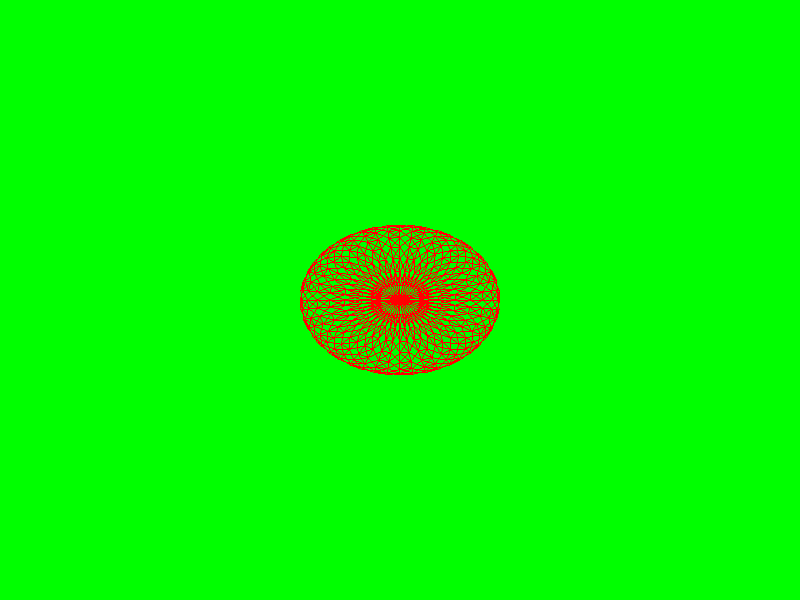
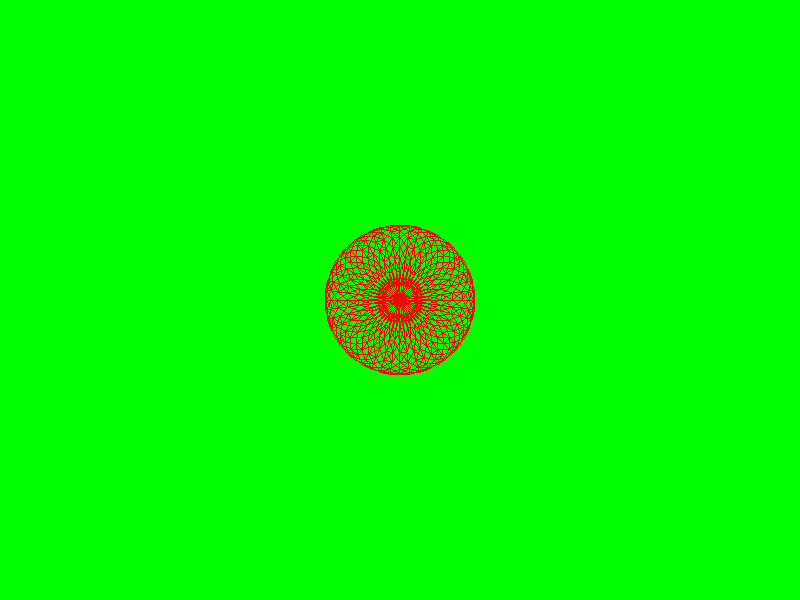
feat: add a fill mode for sphere and fix its shape

Changed region(s): [[0.375, 0.36, 0.625, 0.63]]

diff --git a/phoenix/src/components/geometry/solid.rs b/phoenix/src/components/geometry/solid.rs
@@ -1,14 +1,14 @@
-use crate::components::{Shape, ShapeType};
+use crate::components::{FillMode, Shape, ShapeType};
 
-use super::Point;
-
+use super::{Point, Radius};
 
 pub struct Cube {
     vertices: [f32; 108],
 }
 
 pub struct Sphere {
-    vertices: Vec<f32>
+    vertices: Vec<f32>,
+    mode: FillMode,
 }
 
 impl Cube {
@@ -41,33 +41,38 @@ impl Cube {
 
 impl Sphere {
     #[must_use]
-    pub fn new(center: &Point, radius: f32, precision: u16) -> Self {
+    pub fn new(center: &Point, radius: &Radius, precision: u16) -> Self {
         let mut vertices: Vec<Vec<Point>> = Vec::new();
-        vertices.push(Sphere::calculate_upper_point(center, radius));
+        vertices.push(Sphere::calculate_upper_point(center, radius.height));
         vertices.extend(Sphere::calculate_sector_points(center, radius, precision));
-        vertices.push(Sphere::calculate_bottom_point(center, radius));
+        vertices.push(Sphere::calculate_bottom_point(center, radius.height));
         Self {
             vertices: Sphere::generate_geometry(&vertices, precision),
+            mode: FillMode::Solid,
         }
     }
 
-    fn calculate_upper_point(center: &Point, radius: f32) -> Vec<Point> {
+    pub fn set_fill_mode(&mut self, mode: FillMode) {
+        self.mode = mode;
+    }
+
+    fn calculate_upper_point(center: &Point, height_radius: f32) -> Vec<Point> {
         vec![Point {
             x: center.x,
             y: center.y,
-            z: radius + center.z,
+            z: height_radius + center.z,
         }]
     }
 
-    fn calculate_bottom_point(center: &Point, radius: f32) -> Vec<Point> {
+    fn calculate_bottom_point(center: &Point, height_radius: f32) -> Vec<Point> {
         vec![Point {
             x: center.x,
             y: center.y,
-            z: -radius + center.z,
+            z: -height_radius + center.z,
         }]
     }
 
-    fn calculate_sector_points(center: &Point, radius: f32, precision: u16) -> Vec<Vec<Point>> {
+    fn calculate_sector_points(center: &Point, radius: &Radius, precision: u16) -> Vec<Vec<Point>> {
         let mut result: Vec<Vec<Point>> = Vec::new();
         let sector_angle_leap = 360_f32 / f32::from(precision * 3);
         let stack_angle_leap = 180_f32 / f32::from(precision);
@@ -90,12 +95,17 @@ impl Sphere {
         result
     }
 
-    fn calculate_point(center: &Point, radius: f32, sector_angle: f32, stack_angle: f32) -> Point {
+    fn calculate_point(
+        center: &Point,
+        radius: &Radius,
+        sector_angle: f32,
+        stack_angle: f32,
+    ) -> Point {
         let radian_sector_angle = f32::to_radians(sector_angle);
         let radian_stack_angle = f32::to_radians(stack_angle);
-        let x = radius * f32::cos(radian_stack_angle) * f32::cos(radian_sector_angle);
-        let y = radius * f32::cos(radian_stack_angle) * f32::sin(radian_sector_angle);
-        let z = radius * f32::sin(radian_stack_angle);
+        let x = radius.width * f32::cos(radian_stack_angle) * f32::cos(radian_sector_angle);
+        let y = radius.height * f32::cos(radian_stack_angle) * f32::sin(radian_sector_angle);
+        let z = radius.height * f32::sin(radian_stack_angle);
         Point {
             x: x + center.x,
             y: y + center.y,
@@ -204,5 +214,55 @@ impl Shape for Sphere {
 
     fn get_type(&self) -> ShapeType {
         ShapeType::Sphere
+    }
+
+    fn get_fill_mode(&self) -> FillMode {
+        self.mode
+    }
+}
+
+#[cfg(test)]
+mod tests {
+    use super::*;
+
+    #[test]
+    fn test_sphere_vertices_count() {
+        let center = Point {
+            x: 0.0,
+            y: 0.0,
+            z: 0.0,
+        };
+        let radius = Radius {
+            width: 1.0,
+            height: 1.0,
+        };
+        let precision = 10;
+        let sphere = Sphere::new(&center, &radius, precision);
+
+        // Calculate expected number of vertices
+        let expected_vertices = Sphere::estimate_buffer_len(precision);
+
+        assert_eq!(sphere.vertices.len(), expected_vertices);
+    }
+
+    #[test]
+    fn test_sphere_precision_effect() {
+        let center = Point {
+            x: 0.0,
+            y: 0.0,
+            z: 0.0,
+        };
+        let radius = Radius {
+            width: 1.0,
+            height: 1.0,
+        };
+
+        let low_precision = 5;
+        let high_precision = 10;
+
+        let low_precision_sphere = Sphere::new(&center, &radius, low_precision);
+        let high_precision_sphere = Sphere::new(&center, &radius, high_precision);
+
+        assert!(low_precision_sphere.vertices.len() < high_precision_sphere.vertices.len());
     }
 }

diff --git a/phoenix/src/renderer/opengl.rs b/phoenix/src/renderer/opengl.rs
@@ -9,7 +9,7 @@ use crate::components::color::{Color, RGBA};
 use crate::components::shaders::ShaderSource;
 use crate::components::texture::Texture;
 use crate::components::transformer::Transformer;
-use crate::components::{Shape, ShapeType};
+use crate::components::{FillMode, Shape, ShapeType};
 use crate::entities::entity::View;
 use crate::renderer::Result;
 
@@ -28,13 +28,14 @@ pub struct OpenGL {
     buffers: HashMap<EntityID, Buffers>,
     shapes_type: HashMap<EntityID, ShapeType>,
     textures: HashMap<EntityID, TextureID>,
+    shape_fill_mode: HashMap<EntityID, u32>,
 }
 
 #[derive(Clone, Default)]
 struct Buffers {
     pub vertex_array_object: u32,
     pub vertex_buffer_object: u32,
-    pub indices: u16
+    pub indices: u16,
 }
 
 impl Buffers {
@@ -80,13 +81,17 @@ impl Render for OpenGL {
         }
 
         if let Some(shape) = entity.shape {
-            let buffers = OpenGL::handle_vertices(shape, &entity)?;
+            let buffers = OpenGL::handle_shape(shape, &entity)?;
             self.buffers.insert(entity.entity_id, buffers);
             if let Some(shader_id) = self.shaders_id.get(&entity.entity_id) {
                 OpenGL::set_uniform_shader_variables(&entity, *shader_id)?;
             }
 
             self.shapes_type.insert(entity.entity_id, shape.get_type());
+            self.shape_fill_mode.insert(
+                entity.entity_id,
+                OpenGL::match_fill_mode(shape.get_fill_mode()),
+            );
         }
 
         if let Some(texture) = entity.texture {
@@ -110,15 +115,17 @@ impl Render for OpenGL {
             if let Some(buffer) = self.buffers.get(&entity_id) {
                 gl::BindVertexArray(buffer.vertex_array_object);
                 if let Some(shape_type) = self.shapes_type.get(&entity_id) {
+                    let mode: u32 = *self
+                        .shape_fill_mode
+                        .get(&entity_id)
+                        .unwrap_or(&gl::TRIANGLES);
                     match shape_type {
                         ShapeType::Triangle | ShapeType::Cube => {
-                            gl::DrawArrays(gl::TRIANGLES, 0, buffer.indices.into());
+                            gl::DrawArrays(mode, 0, buffer.indices.into());
                         }
-                        ShapeType::Circle => 
-                            gl::DrawArrays(gl::TRIANGLE_FAN, 1, i32::from(buffer.indices - 1)),
-                        
+                        ShapeType::Circle => gl::DrawArrays(mode, 1, i32::from(buffer.indices - 1)),
 
-                        ShapeType::Sphere => gl::DrawArrays(1, 0, buffer.indices.into()),
+                        ShapeType::Sphere => gl::DrawArrays(mode, 0, buffer.indices.into()),
                     };
                 }
             }
@@ -182,11 +189,11 @@ impl OpenGL {
         Ok(result)
     }
 
-    fn handle_vertices(shape: &dyn Shape, entity: &View) -> Result<Buffers> {
-        match shape.get_type() {
-            ShapeType::Cube | ShapeType::Triangle | ShapeType::Circle | ShapeType::Sphere => {
-                OpenGL::handle_shape(shape, entity)
-            }
+    fn match_fill_mode(mode: FillMode) -> u32 {
+        match mode {
+            FillMode::Lines => gl::LINES,
+            FillMode::Solid => gl::TRIANGLES,
+            FillMode::Fan => gl::TRIANGLE_FAN,
         }
     }
 

diff --git a/graphic-tests/src/tests/basic_3d_geometries.rs b/graphic-tests/src/tests/basic_3d_geometries.rs
@@ -4,15 +4,17 @@ use cgmath::vec3;
 use phoenix::{
     components::{
         color::{Color, RGBA},
-        geometry::solid::{Cube, Sphere},
-        geometry::Point,
+        geometry::{
+            solid::{Cube, Sphere},
+            Point,
+        },
         texture::{self, load, Filtering, MinFiltering, Mipmaps, Texture, Wrapping},
         transformer::Builder,
-        Component,
+        Component, FillMode,
     },
     entities::entity::Entity,
     renderer::Render,
-    systems::{camera, scene::Scene},
+    systems::{camera, scaler::Scaler, scene::Scene},
     window::Window,
 };
 
@@ -55,14 +57,14 @@ pub fn test_3d_gold_cube_on_green_background(window: Rc<Window>, render: Box<dyn
 }
 
 pub fn test_3d_red_sphere_on_green_screen(window: Rc<Window>, render: Box<dyn Render>) {
+    let scaler = Scaler::new(window.get_resolution());
     let mut scene = Scene::new(window, render);
 
-    let sphere = Sphere::new(
-        &Point::new_normalized(0.0, 0.0, 0.0),
-        0.25,
-        16,
-    );
+    let radius = scaler.radius(0.25);
 
+    let mut sphere = Sphere::new(&Point::new_normalized(0.0, 0.0, 0.0), &radius, 16);
+
+    sphere.set_fill_mode(FillMode::Lines);
     let mut entity = Entity::default();
     entity.add_component(Component::Geometry(Box::new(sphere)));
     entity.add_component(Component::Color(Color::from_hex(0xFF_00_00_FF)));

diff --git a/phoenix/src/components.rs b/phoenix/src/components.rs
@@ -30,16 +30,19 @@ pub enum Component {
     Transformer(Transformer),
 }
 
-#[derive(Clone)]
+#[derive(Clone, Copy)]
 pub enum FillMode {
     Lines,
     Solid,
+    Fan,
 }
-
 
 pub trait Shape {
     fn get_vertices(&self) -> &[f32];
     fn get_type(&self) -> ShapeType;
+    fn get_fill_mode(&self) -> FillMode {
+        FillMode::Solid
+    }
 }
 
 #[derive(PartialEq, Debug, Clone)]

diff --git a/phoenix/src/components/geometry/plane.rs b/phoenix/src/components/geometry/plane.rs
@@ -1,5 +1,5 @@
 use super::{Point, Radius};
-use crate::components::{Shape, ShapeType};
+use crate::components::{FillMode, Shape, ShapeType};
 
 #[derive(Clone)]
 pub struct Triangle {
@@ -34,6 +34,10 @@ impl Shape for Circle {
 
     fn get_type(&self) -> ShapeType {
         ShapeType::Circle
+    }
+
+    fn get_fill_mode(&self) -> FillMode {
+        FillMode::Fan
     }
 }
 
